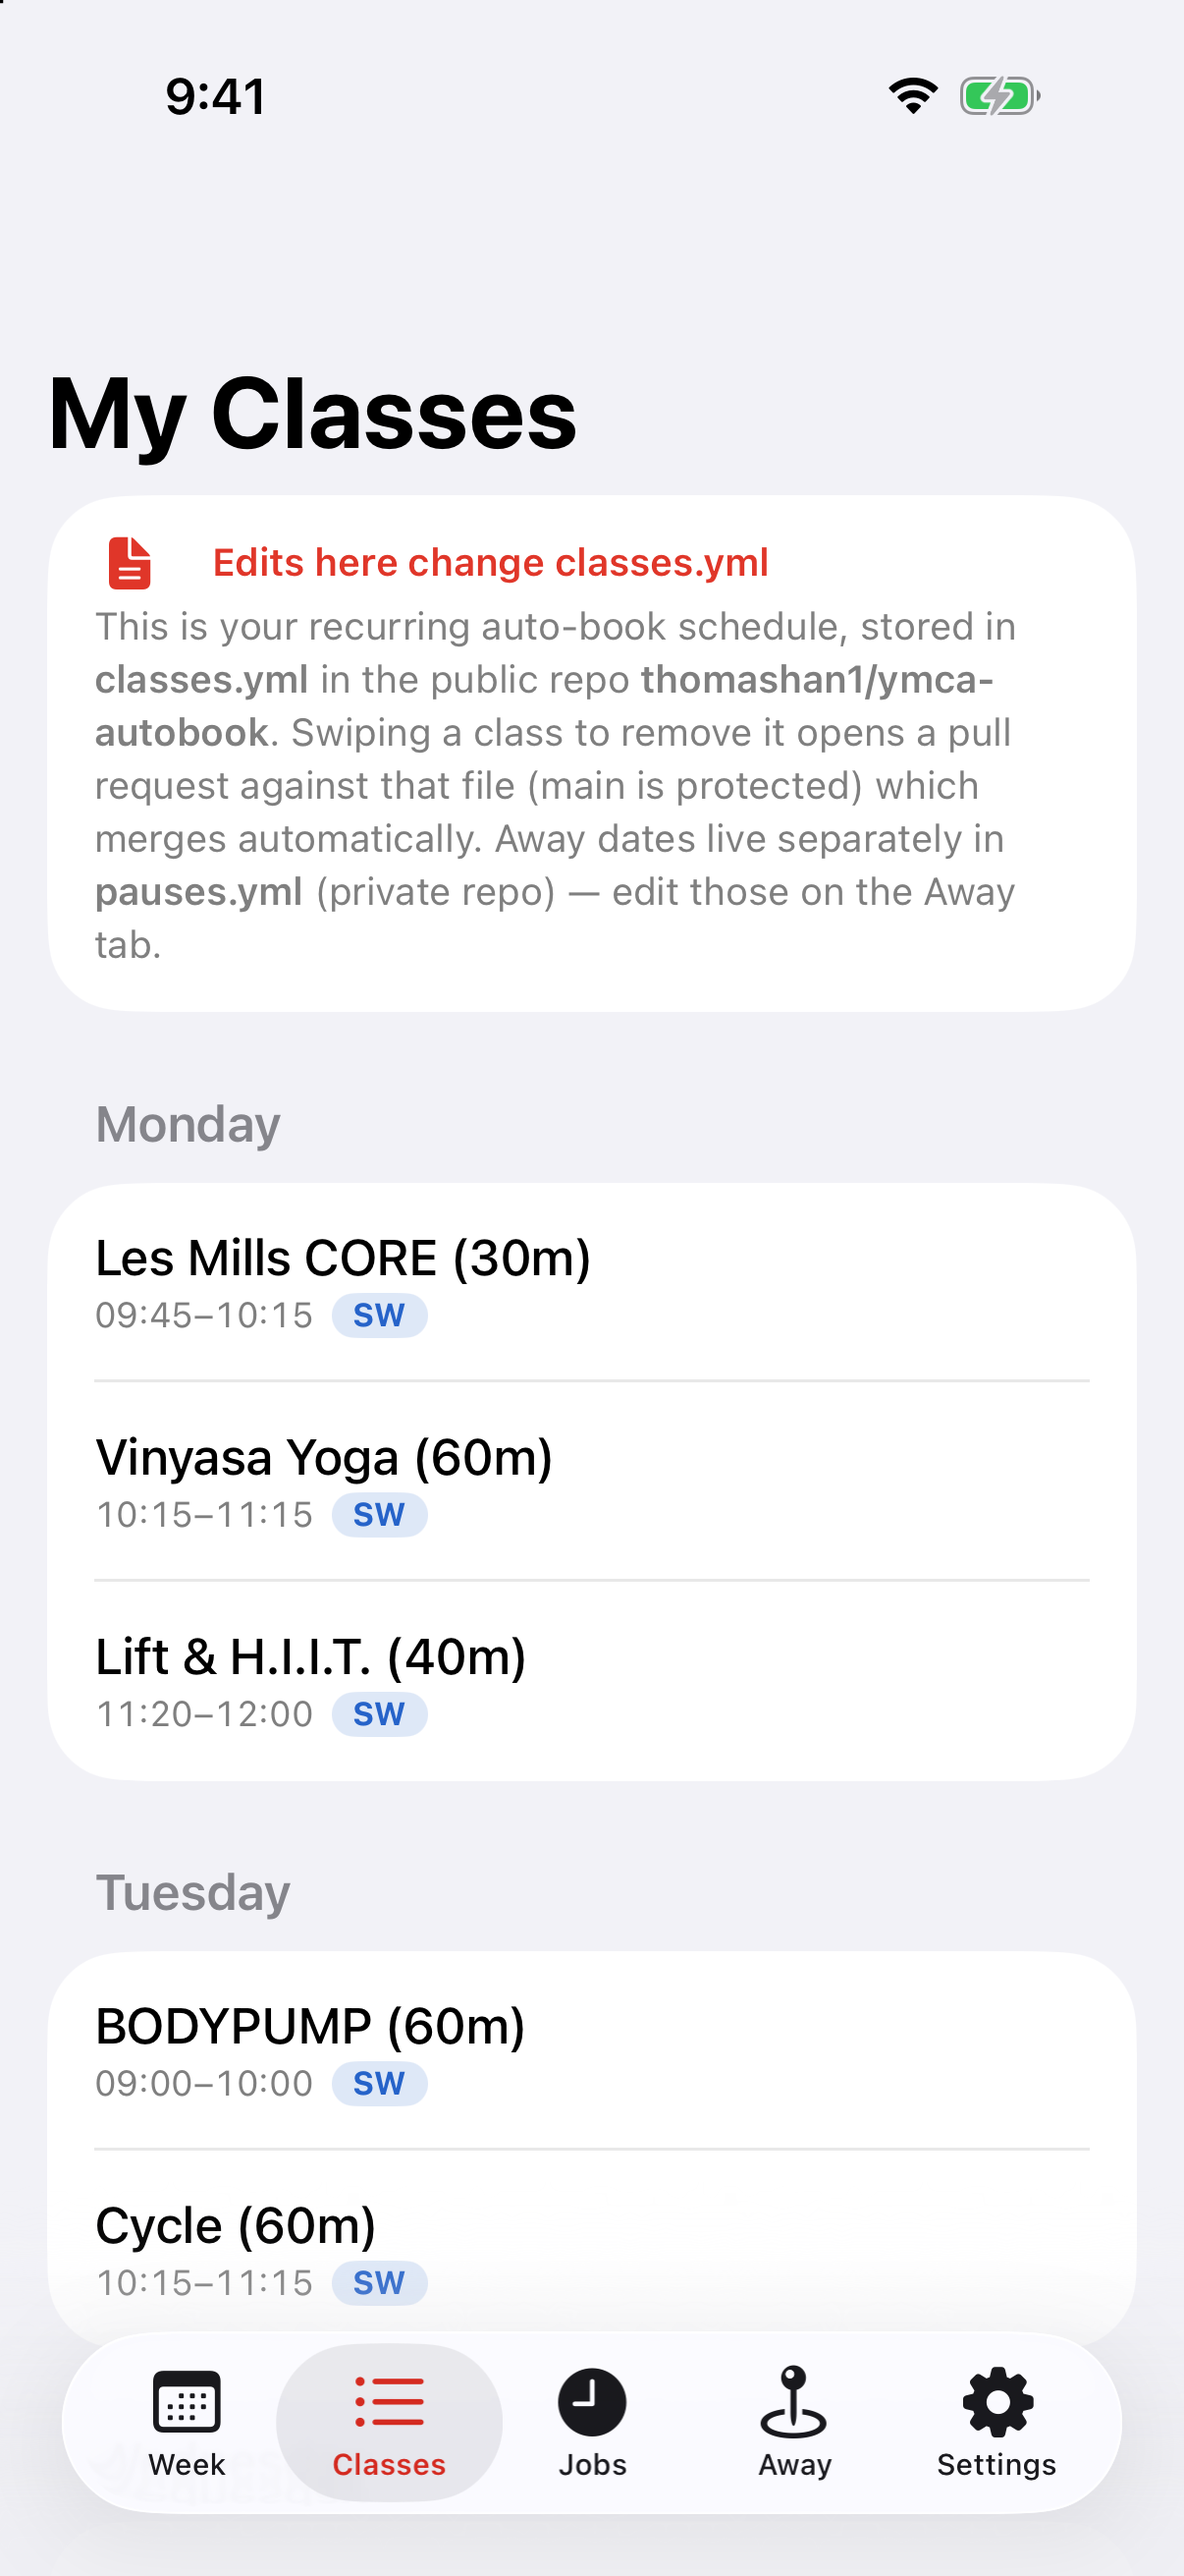
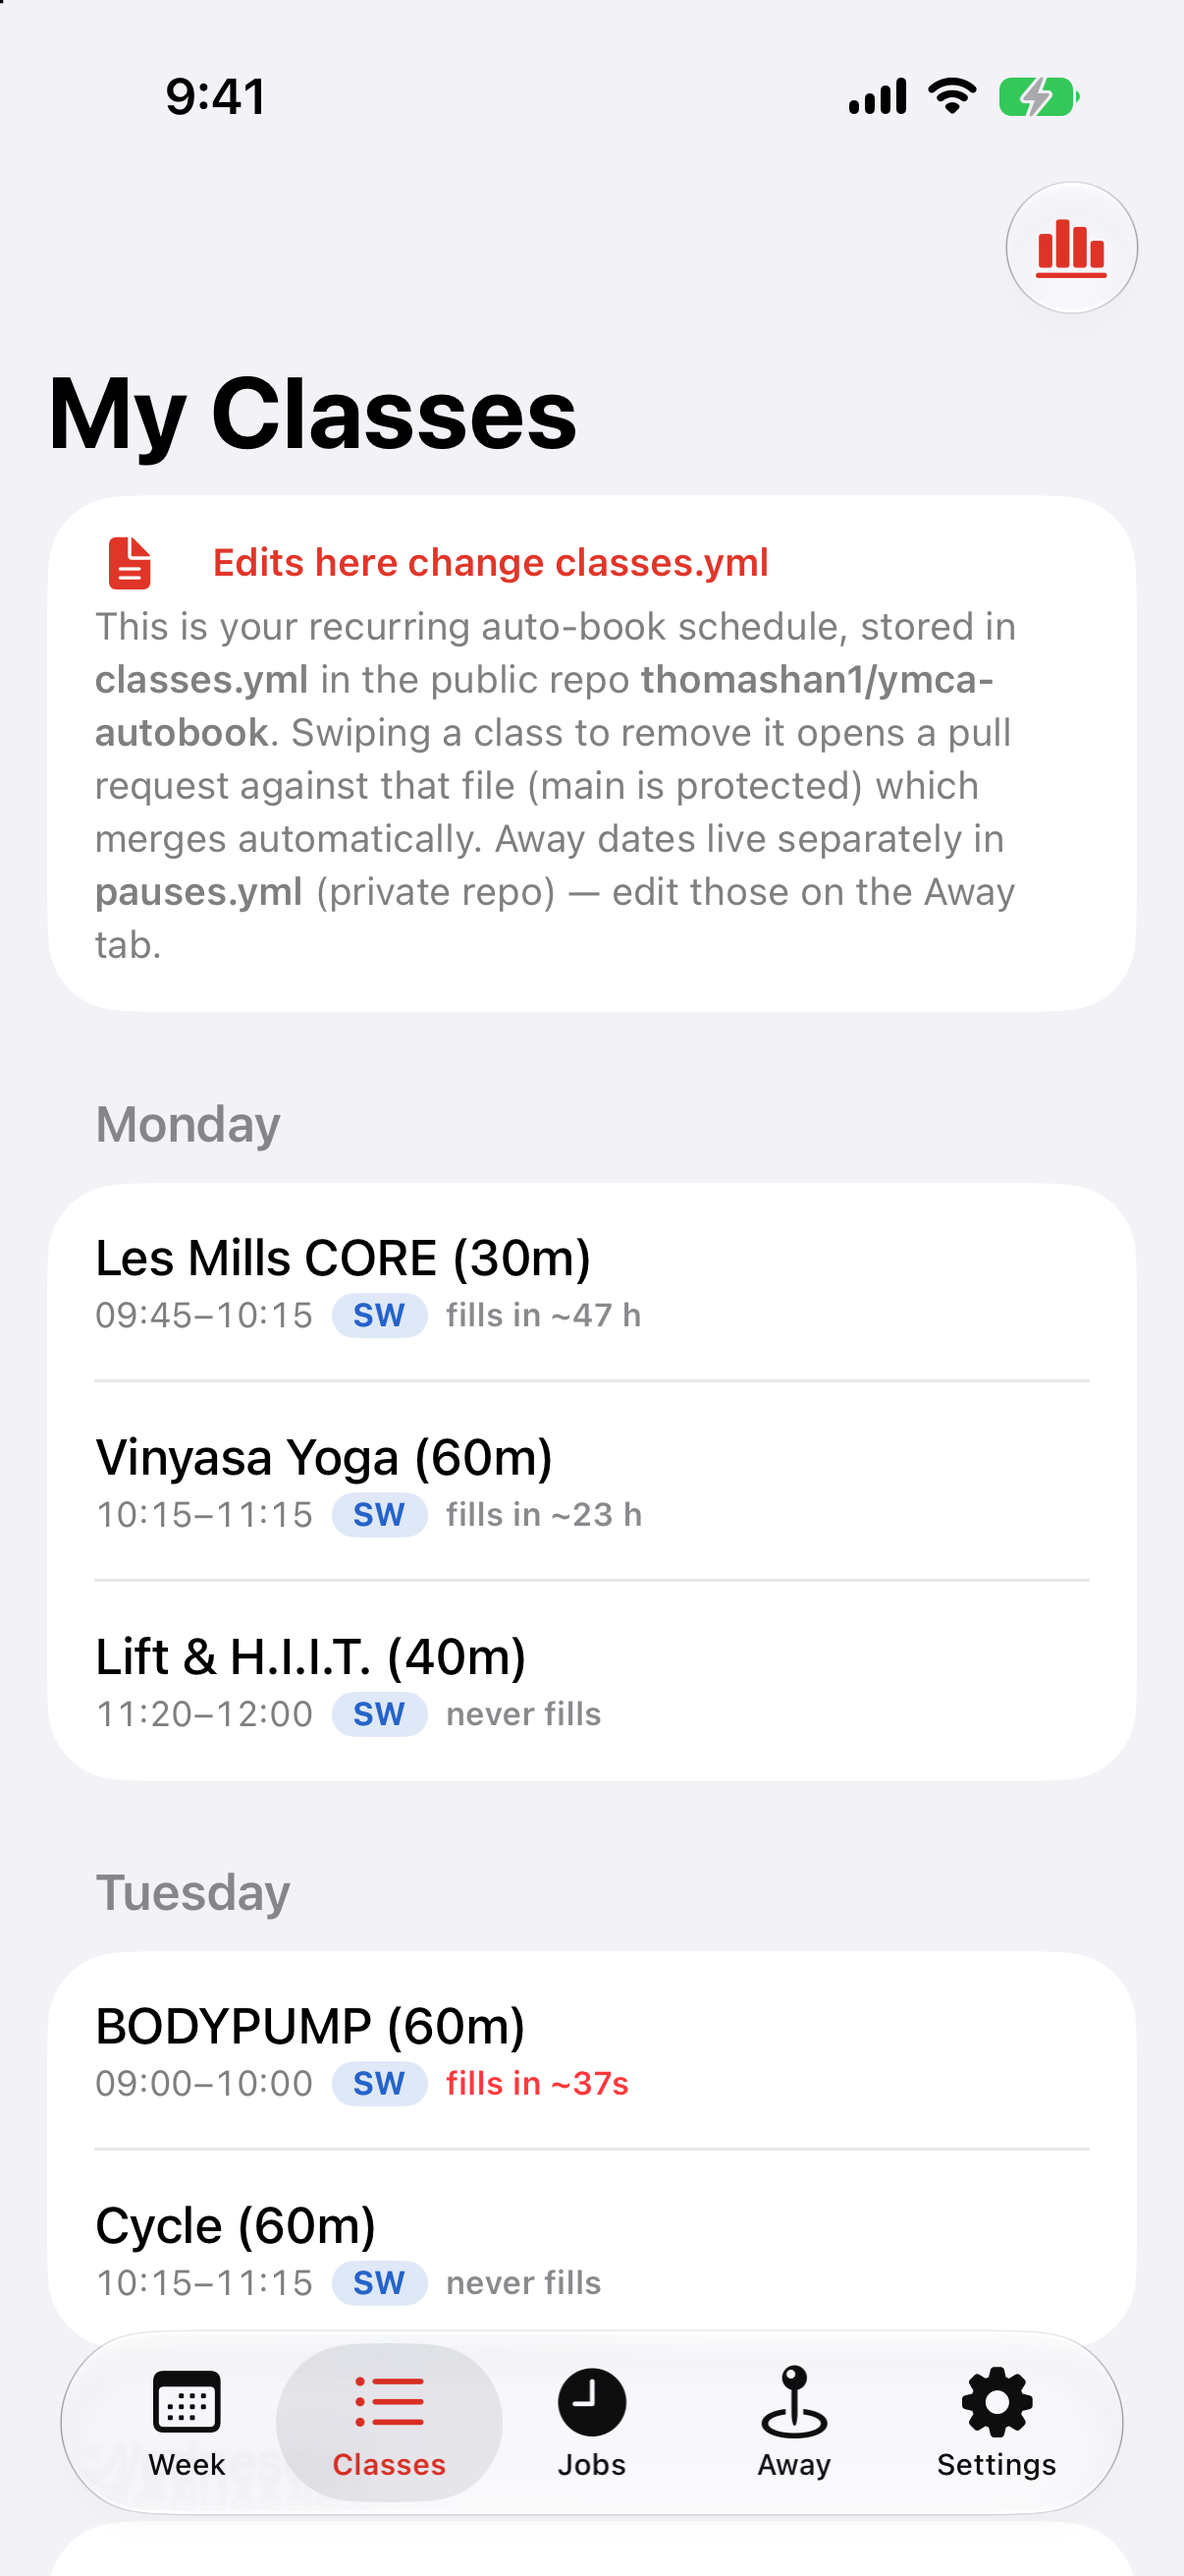
README: Fill speed screenshots; refresh the Classes screenshot (#144)
The Classes rows gained "fills in ~37s" badges in #143, so classes.png was
stale. Adds the Fill speed screen (Mine / Fill fast) with a short section on
where the numbers come from.

The simulator sample now uses the real 10/10 fill stats for the sample
lineup plus every class that fills within five minutes, and two launch args
(-screenshotFillStats, -screenshotStatsFilter) open the screen directly, in
the style of the existing -screenshotTab.

Claude-Session: https://claude.ai/code/session_01TinE6kP4yPHv2TZ2PdXNmB

diff --git a/ios/YmcaAutobook/Services/FillStatsRepository.swift b/ios/YmcaAutobook/Services/FillStatsRepository.swift
@@ -74,15 +74,86 @@ final class FillStatsRepository: ObservableObject {
         return "\(Int((s / 86400).rounded())) d"
     }
 
+    /// Simulator sample: the real stats (10/10) for the sample lineup, plus every
+    /// class that fills within five minutes.
     private static let sample: [Slot] = [
+        .init(key: "aqua fitness|Mon|09:00|1392", name: "Aqua Fitness", weekday: "Mon", start: "09:00", branch_id: 1392,
+              branch: "Southwest", capacity: 50, weeks: 4, filled: 4, median_fill_s: 135.5, fastest_fill_s: 78,
+              within_60s: 0, median_waitlist: 4),
+        .init(key: "pilates|Mon|09:00|1392", name: "Pilates", weekday: "Mon", start: "09:00", branch_id: 1392,
+              branch: "Southwest", capacity: 28, weeks: 5, filled: 5, median_fill_s: 149, fastest_fill_s: 52,
+              within_60s: 1, median_waitlist: 5),
+        .init(key: "les mills core|Mon|09:45|1392", name: "Les Mills CORE", weekday: "Mon", start: "09:45", branch_id: 1392,
+              branch: "Southwest", capacity: 25, weeks: 5, filled: 5, median_fill_s: 168093, fastest_fill_s: 34616,
+              within_60s: 0, median_waitlist: 1),
+        .init(key: "trx|Mon|10:10|1388", name: "TRX", weekday: "Mon", start: "10:10", branch_id: 1388,
+              branch: "Northwest", capacity: 16, weeks: 5, filled: 5, median_fill_s: 159, fastest_fill_s: 5,
+              within_60s: 2, median_waitlist: 3),
+        .init(key: "vinyasa yoga|Mon|10:15|1392", name: "Vinyasa Yoga", weekday: "Mon", start: "10:15", branch_id: 1392,
+              branch: "Southwest", capacity: 28, weeks: 5, filled: 5, median_fill_s: 81865, fastest_fill_s: 15235,
+              within_60s: 0, median_waitlist: 5),
+        .init(key: "lift & h.i.i.t.|Mon|11:20|1392", name: "Lift & H.I.I.T.", weekday: "Mon", start: "11:20", branch_id: 1392,
+              branch: "Southwest", capacity: 28, weeks: 5, filled: 0, median_fill_s: nil, fastest_fill_s: nil,
+              within_60s: 0, median_waitlist: 0),
+        .init(key: "aqua fitness|Tue|09:00|1392", name: "Aqua Fitness", weekday: "Tue", start: "09:00", branch_id: 1392,
+              branch: "Southwest", capacity: 50, weeks: 5, filled: 5, median_fill_s: 224, fastest_fill_s: 87,
+              within_60s: 0, median_waitlist: 3),
         .init(key: "bodypump|Tue|09:00|1392", name: "BODYPUMP", weekday: "Tue", start: "09:00", branch_id: 1392,
               branch: "Southwest", capacity: 41, weeks: 5, filled: 5, median_fill_s: 37, fastest_fill_s: 34,
-              within_60s: 4, median_waitlist: 5),
-        .init(key: "vinyasa yoga|Mon|10:15|1392", name: "Vinyasa Yoga", weekday: "Mon", start: "10:15", branch_id: 1392,
-              branch: "Southwest", capacity: 30, weeks: 5, filled: 5, median_fill_s: 81000, fastest_fill_s: 15100,
-              within_60s: 0, median_waitlist: 2),
+              within_60s: 4, median_waitlist: 3),
+        .init(key: "bodybalance|Tue|10:15|1392", name: "BODYBALANCE", weekday: "Tue", start: "10:15", branch_id: 1392,
+              branch: "Southwest", capacity: 28, weeks: 5, filled: 5, median_fill_s: 15, fastest_fill_s: 13,
+              within_60s: 5, median_waitlist: 1),
+        .init(key: "cycle|Tue|10:15|1392", name: "Cycle", weekday: "Tue", start: "10:15", branch_id: 1392,
+              branch: "Southwest", capacity: 32, weeks: 5, filled: 0, median_fill_s: nil, fastest_fill_s: nil,
+              within_60s: 0, median_waitlist: 0),
+        .init(key: "pilates|Wed|09:00|1392", name: "Pilates", weekday: "Wed", start: "09:00", branch_id: 1392,
+              branch: "Southwest", capacity: 28, weeks: 5, filled: 5, median_fill_s: 61, fastest_fill_s: 37,
+              within_60s: 2, median_waitlist: 5),
         .init(key: "rpm|Wed|09:30|1388", name: "RPM", weekday: "Wed", start: "09:30", branch_id: 1388,
               branch: "Northwest", capacity: 29, weeks: 5, filled: 0, median_fill_s: nil, fastest_fill_s: nil,
               within_60s: 0, median_waitlist: 0),
+        .init(key: "upbeat barre|Wed|09:50|1392", name: "UpBeat Barre", weekday: "Wed", start: "09:50", branch_id: 1392,
+              branch: "Southwest", capacity: 40, weeks: 5, filled: 5, median_fill_s: 26, fastest_fill_s: 22,
+              within_60s: 5, median_waitlist: 0),
+        .init(key: "les mills core|Wed|10:30|1388", name: "Les Mills CORE", weekday: "Wed", start: "10:30", branch_id: 1388,
+              branch: "Northwest", capacity: 35, weeks: 5, filled: 0, median_fill_s: nil, fastest_fill_s: nil,
+              within_60s: 0, median_waitlist: 0),
+        .init(key: "aqua fitness|Thu|09:00|1392", name: "Aqua Fitness", weekday: "Thu", start: "09:00", branch_id: 1392,
+              branch: "Southwest", capacity: 50, weeks: 5, filled: 5, median_fill_s: 249, fastest_fill_s: 80,
+              within_60s: 0, median_waitlist: 2),
+        .init(key: "bodypump|Thu|09:00|1392", name: "BODYPUMP", weekday: "Thu", start: "09:00", branch_id: 1392,
+              branch: "Southwest", capacity: 41, weeks: 5, filled: 5, median_fill_s: 38, fastest_fill_s: 31,
+              within_60s: 5, median_waitlist: 0),
+        .init(key: "pilates|Thu|09:00|1392", name: "Pilates", weekday: "Thu", start: "09:00", branch_id: 1392,
+              branch: "Southwest", capacity: 28, weeks: 5, filled: 5, median_fill_s: 128, fastest_fill_s: 103,
+              within_60s: 0, median_waitlist: 5),
+        .init(key: "trx|Thu|10:10|1388", name: "TRX", weekday: "Thu", start: "10:10", branch_id: 1388,
+              branch: "Northwest", capacity: 16, weeks: 5, filled: 5, median_fill_s: 15, fastest_fill_s: 10,
+              within_60s: 4, median_waitlist: 4),
+        .init(key: "bodybalance|Thu|10:15|1392", name: "BODYBALANCE", weekday: "Thu", start: "10:15", branch_id: 1392,
+              branch: "Southwest", capacity: 28, weeks: 5, filled: 5, median_fill_s: 65, fastest_fill_s: 28,
+              within_60s: 2, median_waitlist: 0),
+        .init(key: "cycle sculpt|Thu|10:15|1392", name: "Cycle Sculpt", weekday: "Thu", start: "10:15", branch_id: 1392,
+              branch: "Southwest", capacity: 32, weeks: 5, filled: 4, median_fill_s: 483497, fastest_fill_s: 433719,
+              within_60s: 0, median_waitlist: 0),
+        .init(key: "aqua fitness|Fri|09:00|1392", name: "Aqua Fitness", weekday: "Fri", start: "09:00", branch_id: 1392,
+              branch: "Southwest", capacity: 50, weeks: 6, filled: 6, median_fill_s: 295, fastest_fill_s: 102,
+              within_60s: 0, median_waitlist: 0),
+        .init(key: "boot camp|Fri|09:00|1392", name: "Boot Camp", weekday: "Fri", start: "09:00", branch_id: 1392,
+              branch: "Southwest", capacity: 35, weeks: 6, filled: 6, median_fill_s: 43.5, fastest_fill_s: 24,
+              within_60s: 4, median_waitlist: 4),
+        .init(key: "upbeat barre|Fri|09:20|1388", name: "UpBeat Barre", weekday: "Fri", start: "09:20", branch_id: 1388,
+              branch: "Northwest", capacity: 25, weeks: 6, filled: 6, median_fill_s: 25, fastest_fill_s: 10,
+              within_60s: 6, median_waitlist: 2),
+        .init(key: "les mills core|Fri|09:45|1388", name: "Les Mills CORE", weekday: "Fri", start: "09:45", branch_id: 1388,
+              branch: "Northwest", capacity: 40, weeks: 6, filled: 0, median_fill_s: nil, fastest_fill_s: nil,
+              within_60s: 0, median_waitlist: 0),
+        .init(key: "lift & h.i.i.t.|Fri|11:20|1392", name: "Lift & H.I.I.T.", weekday: "Fri", start: "11:20", branch_id: 1392,
+              branch: "Southwest", capacity: 28, weeks: 6, filled: 2, median_fill_s: 566530.5, fastest_fill_s: 541222,
+              within_60s: 0, median_waitlist: 0),
+        .init(key: "pilates|Sat|08:00|1388", name: "Pilates", weekday: "Sat", start: "08:00", branch_id: 1388,
+              branch: "Northwest", capacity: 25, weeks: 3, filled: 3, median_fill_s: 27, fastest_fill_s: 15,
+              within_60s: 3, median_waitlist: 5),
     ]
 }

diff --git a/ios/YmcaAutobook/Features/ClassesView.swift b/ios/YmcaAutobook/Features/ClassesView.swift
@@ -15,6 +15,8 @@ struct ClassesView: View {
     @State private var deleting = false
     @State private var resultMessage: String?
     @State private var detail: ClassDetail?
+    // Opens Fill speed at launch via `-screenshotFillStats YES` (for screenshots).
+    @State private var showFillStats = UserDefaults.standard.bool(forKey: "screenshotFillStats")
 
     private func items(on day: Weekday) -> [GymClass] {
         classes.classes.filter { $0.weekday == day }.sorted { $0.start < $1.start }
@@ -60,9 +62,10 @@ struct ClassesView: View {
             .navigationTitle("My Classes")
             .toolbar {
                 ToolbarItem(placement: .topBarTrailing) {
-                    NavigationLink { FillStatsView() } label: { Label("Fill speed", systemImage: "chart.bar.xaxis") }
+                    Button { showFillStats = true } label: { Label("Fill speed", systemImage: "chart.bar.xaxis") }
                 }
             }
+            .navigationDestination(isPresented: $showFillStats) { FillStatsView() }
             .overlay { if classes.isLoading || deleting { ProgressView().padding().background(.regularMaterial, in: RoundedRectangle(cornerRadius: 12)) } }
             .refreshable { await classes.load() }
             .confirmationDialog(

diff --git a/ios/YmcaAutobook/Features/FillStatsView.swift b/ios/YmcaAutobook/Features/FillStatsView.swift
@@ -11,7 +11,8 @@ struct FillStatsView: View {
         var id: String { rawValue }
     }
 
-    @State private var filter: Filter = .mine
+    // Initial filter, overridable via launch arg `-screenshotStatsFilter "Fill fast"` (for screenshots).
+    @State private var filter = UserDefaults.standard.string(forKey: "screenshotStatsFilter").flatMap(Filter.init) ?? .mine
     @State private var search = ""
 
     private let order = ["Mon", "Tue", "Wed", "Thu", "Fri", "Sat", "Sun"]

diff --git a/README.md b/README.md
@@ -25,15 +25,31 @@ iPhone and iPad. See [`ios/README.md`](ios/README.md).
   schedule with your **real bookings** (green ✓ = actually booked); tap a class
   for room/instructor. Pause days are struck through, and a **⇅ badge** marks a
   day with a one-off swap.
-- **Classes** — your recurring lineup by weekday; swipe to remove a class (opens
-  an auto-merging PR against `classes.yml`).
+- **Classes** — your recurring lineup by weekday, each with how fast it
+  typically fills (red when it's within 5 minutes); swipe to remove a class
+  (opens an auto-merging PR against `classes.yml`).
 - **Jobs** — live countdowns to each class's 167h booking-open, **grouped by the
   week they book**, with a **Book now** swipe; pause-skipped jobs are flagged.
 - **Away** — the `pauses.yml` away-dates with their notes, plus upcoming one-off
   swaps from `swaps.yml` (read-only — securing a swap stays the Actions engine's
   job). Past pauses collapse behind a disclosure row.
 
-_Screenshots use sample data._
+### Fill speed
+
+| Mine | Fill fast |
+|:---:|:---:|
+| <img src="ios/screenshots/fill-speed-mine.png" width="200"> | <img src="ios/screenshots/fill-speed-fast.png" width="200"> |
+
+The 📊 button on **Classes** shows how long every class at both branches takes
+to fill once its booking window opens, over the last 12 weeks — median,
+fastest, how many weeks it filled, and the typical waitlist. **Mine** is your
+lineup, **Fill fast** ranks everything that fills within 5 minutes, **All** is
+searchable. It comes from the YMCA's own "filled at" timestamps, collected daily
+by `scripts/update_fill_history.py` into `fill_stats.json` in the private repo.
+That's where the lineup's one real race shows up: BODYPUMP fills in ~37 s every
+week, while the rest take hours or never fill.
+
+_Screenshots use sample data (the Fill speed numbers are real, as of 10/10)._
 
 ## Architecture
 
